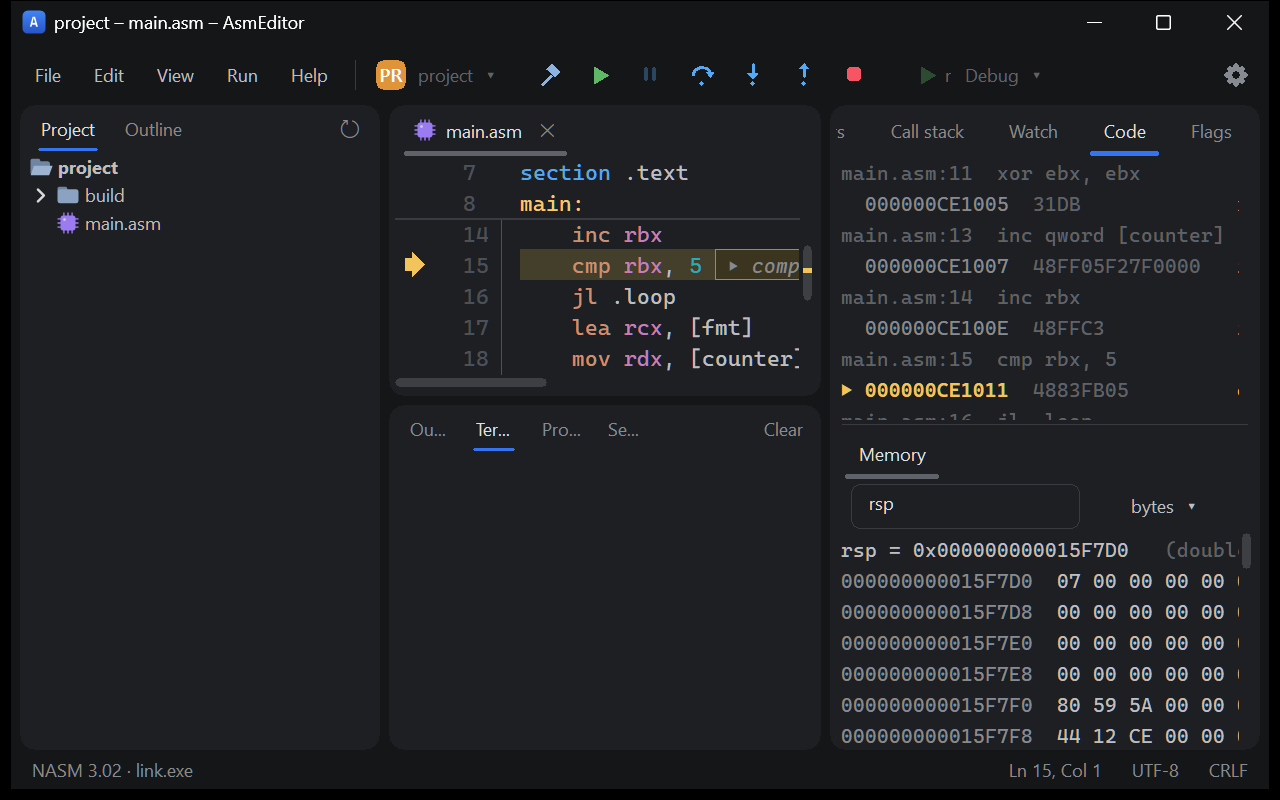
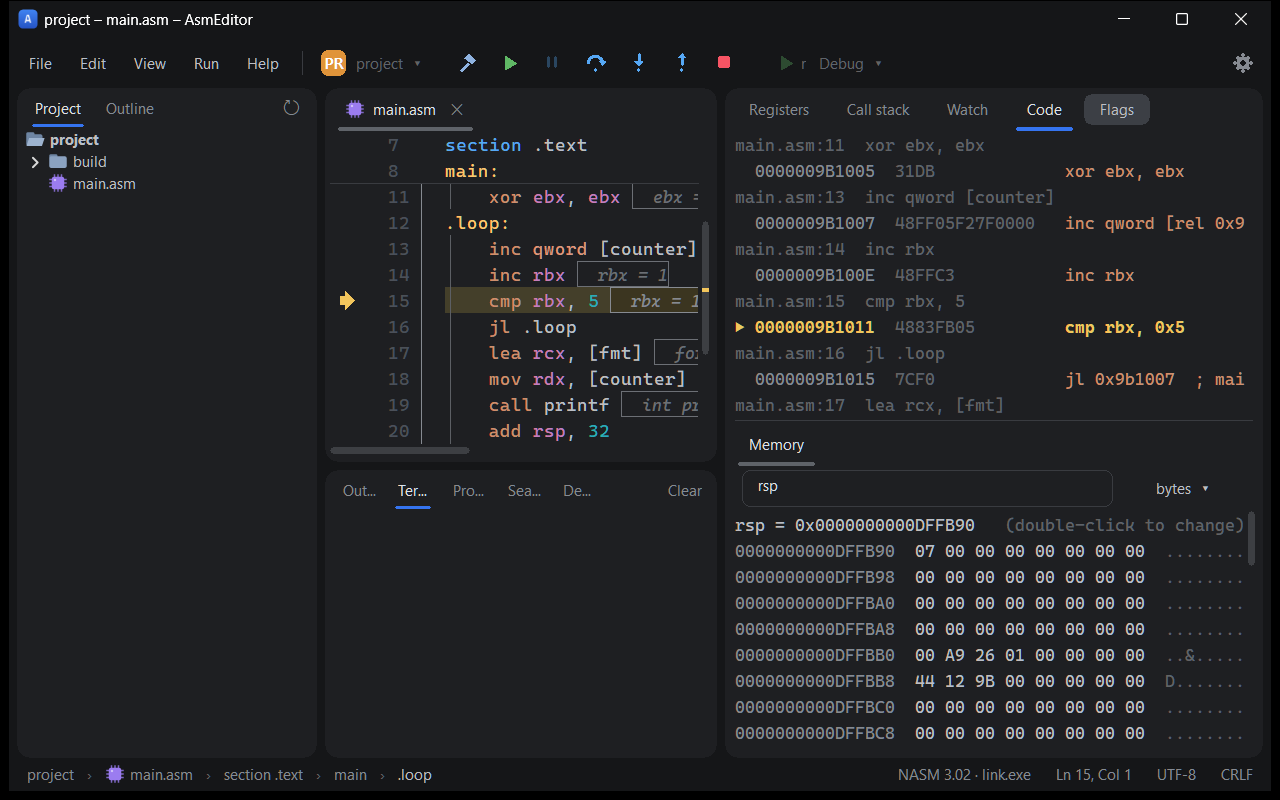
New screenshots (inlay hints, register values, breadcrumbs, block guides); READMEs: install, crash reports, new sources

diff --git a/README.md b/README.md
@@ -131,6 +131,7 @@ Built on the Win32 Debug API; works with 64‑bit and 32‑bit (WOW64) programs.
 - English and Russian interface (including the instruction reference).
 - Custom keyboard shortcuts, F1 help with all commands and their current keys.
 - Crash recovery for unsaved text, reload on external change, optional autosave.
+- If the editor itself crashes, it writes a minidump and on the next start offers to report the crash on GitHub.
 - Portable mode: put `portable.txt` next to the exe.
 
 ## Building from source
@@ -169,6 +170,9 @@ DbgHelp, gdb/MI for WSL, WinHTTP and BCrypt for updates. No other dependencies.
 | `src/main.cpp` | entry point, message loop |
 | `src/mainwindow.*`, `src/mw_*.cpp` | the main window: layout, commands, files, build, debugging, navigation, updates |
 | `src/editor.*` | Scintilla wrapper: styles, lexer with folding, markers, breakpoints |
+| `src/scrollbar.*`, `src/sticky.*`, `src/blockguides.*`, `src/changemarks.*` | thin scrollbars and smooth scrolling, sticky lines, block guides, the change margin |
+| `src/codeinfo.*`, `src/vcs.*` | inlay hints and the line diff; the file at the last git commit |
+| `src/fileicons.*`, `src/switcher.*`, `src/crash.*` | file icons, the Ctrl+Tab switcher, crash minidumps |
 | `src/debugger.*` | the debugger: Debug API loop, WOW64, breakpoints, stepping, DR0–DR3, unwinding, expressions, step back, profilers |
 | `src/gdbmi.*` | gdb/MI parser and the gdb session in WSL |
 | `src/disasm.cpp` | x86 / x86‑64 disassembler (NASM syntax) |
@@ -181,6 +185,8 @@ DbgHelp, gdb/MI for WSL, WinHTTP and BCrypt for updates. No other dependencies.
 | `src/uitest.cpp` | the UI self-test |
 | `tests/tests.cpp` | unit tests and end-to-end debugger tests |
 | `installer/AsmEditor.iss` | Inno Setup script |
+| `packaging/`, `tools/update-packaging.ps1` | Scoop and winget manifests and their update after a release |
+| `docs/index.html` | the project page (GitHub Pages) |
 
 </details>
 
